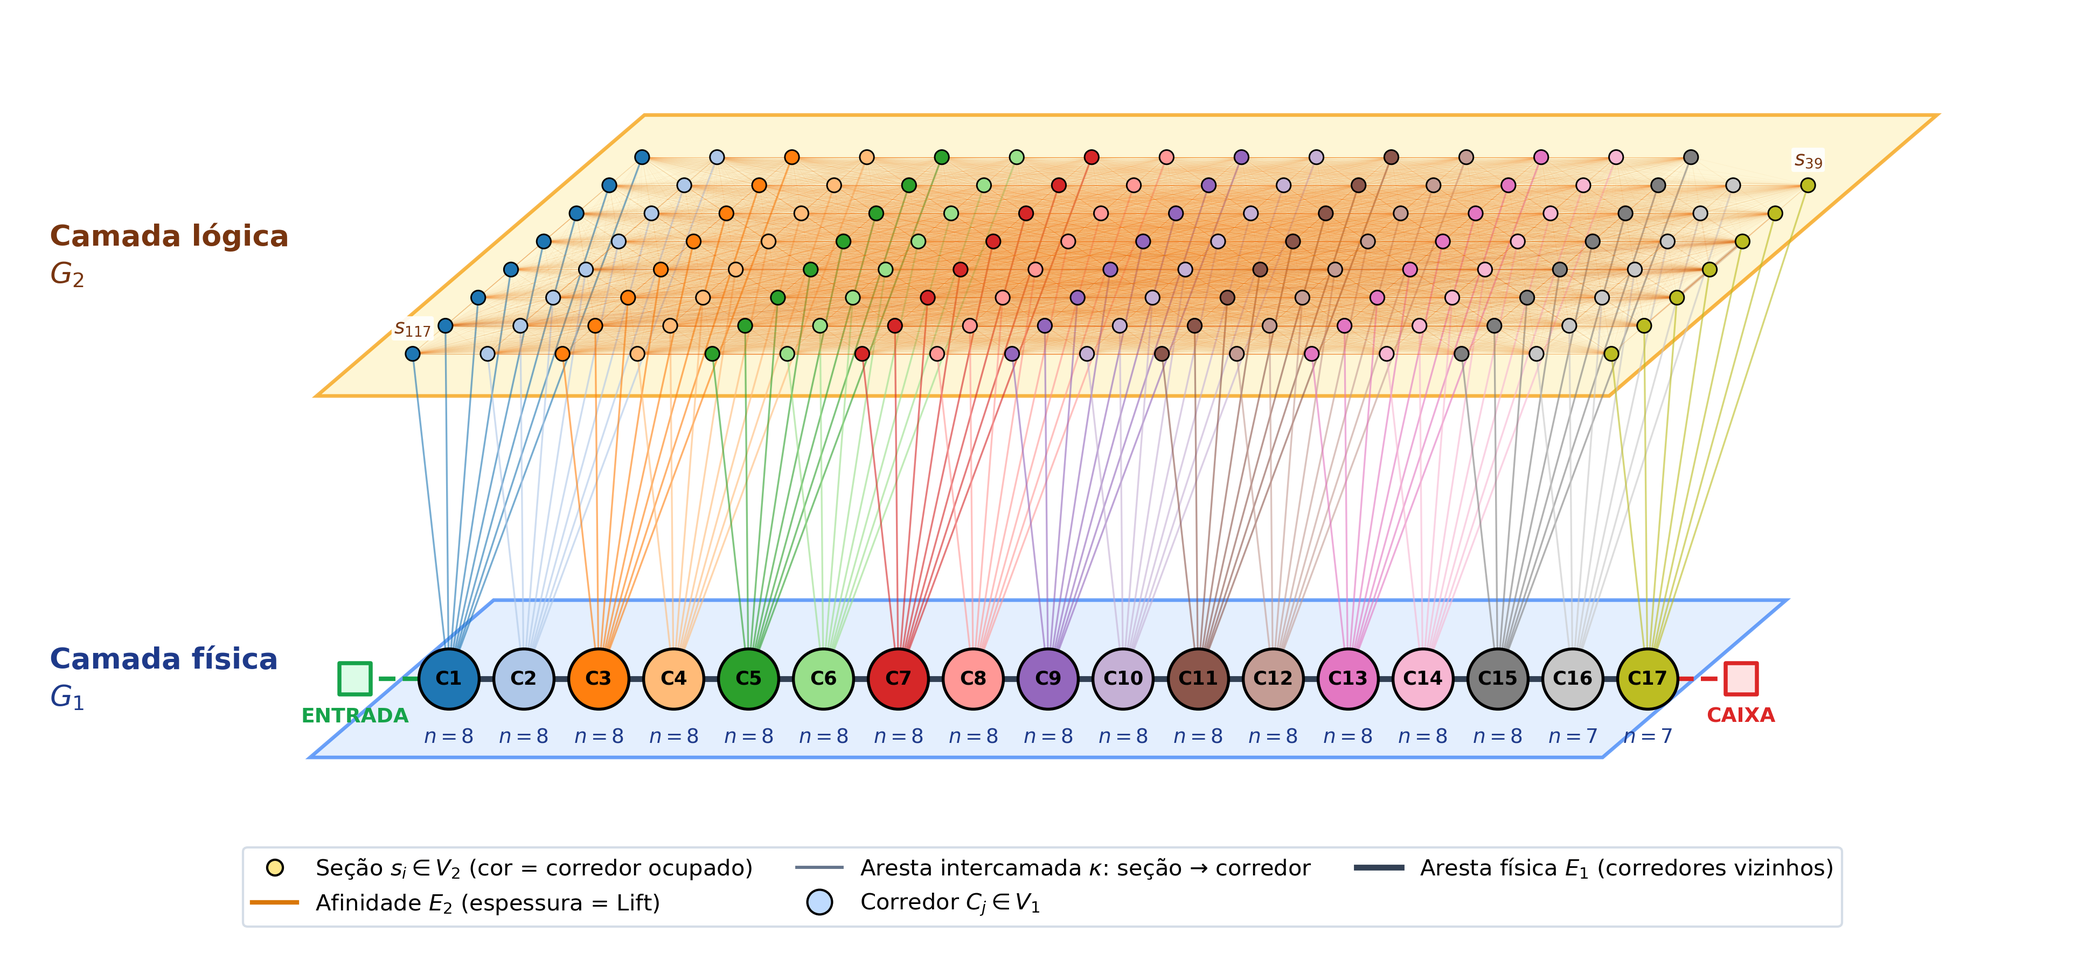
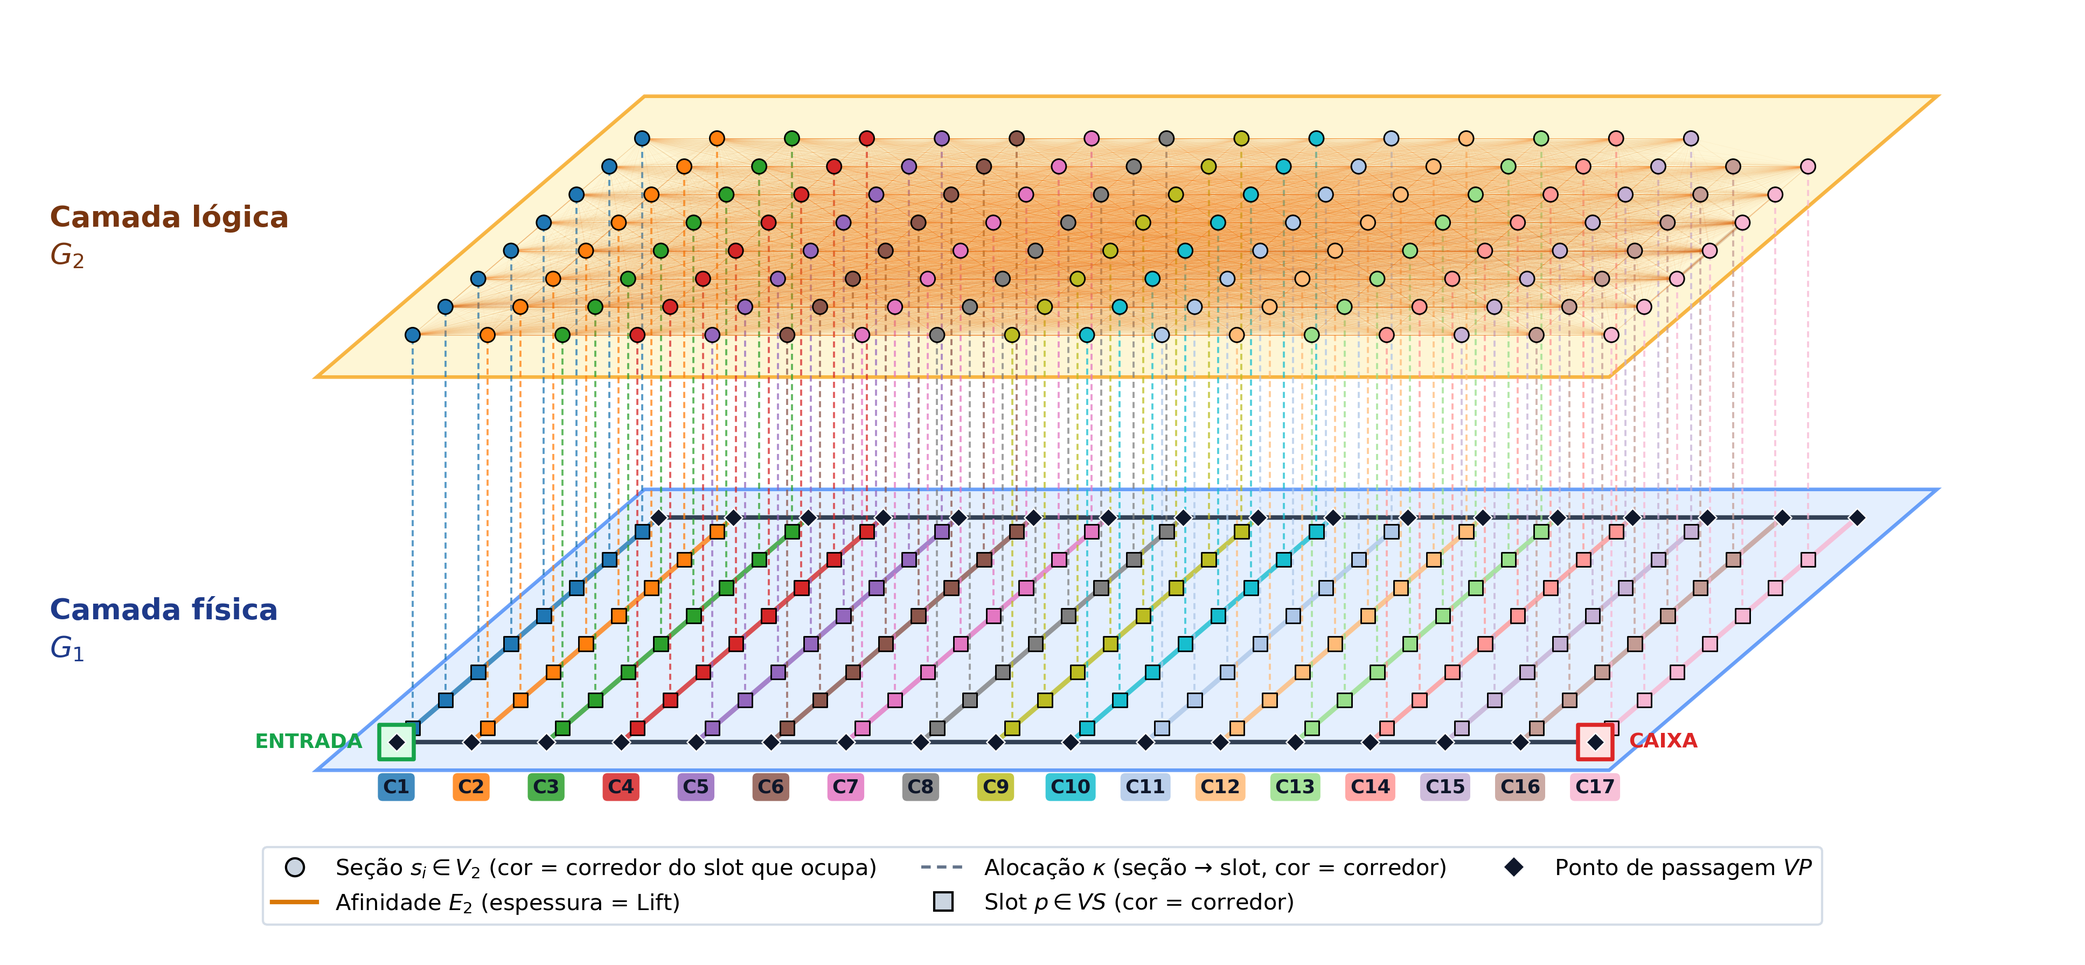
fix: ajuste no script das figuras

diff --git a/modelagem/gerar_grafos_modelagem.py b/modelagem/gerar_grafos_modelagem.py
@@ -29,18 +29,19 @@ import numpy as np
 import pandas as pd
 from matplotlib.collections import LineCollection
 from matplotlib.lines import Line2D
-from matplotlib.patches import ConnectionPatch, FancyBboxPatch, Rectangle
+from matplotlib.patches import Rectangle
 
-
+# ---------------------------------------------------------------------------
 # Parâmetros do layout (seção 3.5 da modelagem)
-
+# ---------------------------------------------------------------------------
 N_CORREDORES = 17
-COMPRIMENTO = 20.0   
-DX = 4.0             
-H_LATERAL = 1.0      
-X_ENTRADA = -5.0    
-X_CAIXA = (N_CORREDORES - 1) * DX + 5.0  
-N_POS_MAX = 8        
+COMPRIMENTO = 20.0   # m por corredor
+DX = 4.0             # m entre eixos de corredores adjacentes
+X_MAX = (N_CORREDORES - 1) * DX      # 64 m
+H_LATERAL = 0.0      # slots sobre o eixo do corredor (h_i = 0)
+X_ENTRADA = 0.0      # ENTRADA em (0, 0): coincide com o ponto de passagem frontal do corredor 1
+X_CAIXA = X_MAX      # CAIXA em (64, 0): coincide com o ponto de passagem frontal do corredor 17
+N_POS_MAX = 8        # espaçamento de 2,5 m; primeiro slot a 1,25 m do início
 
 # Paleta
 COR_FUNDO_LOJA = "#F8FAFC"
@@ -54,7 +55,8 @@ COR_CAIXA = "#DC2626"
 COR_ARESTA_G2 = "#D97706"
 COR_NO_G2 = "#FDE68A"
 COR_NO_G2_BORDA = "#B45309"
-DESTAQUES = ["#E11D48", "#7C3AED", "#059669", "#2563EB", "#DB2777", "#EA580C"]
+_ORDEM_TAB20 = [0, 2, 4, 6, 8, 10, 12, 14, 16, 18, 1, 3, 5, 7, 9, 11, 13]
+COR_CORREDOR = {c: plt.cm.tab20(_ORDEM_TAB20[c - 1]) for c in range(1, 18)}   # corredores vizinhos têm cores distintas
 
 plt.rcParams.update(
     {
@@ -65,15 +67,16 @@ plt.rcParams.update(
 )
 
 
+# ---------------------------------------------------------------------------
 # Dados
-
+# ---------------------------------------------------------------------------
 @dataclass
 class Loja:
     """Geometria da loja (em metros) e grafo físico G1."""
 
-    slots: pd.DataFrame     
-    grafo: nx.Graph         
-    rho: np.ndarray          
+    slots: pd.DataFrame      # colunas: idx, corredor, pos, x_eixo, y, x_slot
+    grafo: nx.Graph          # G1 completo, com pesos de Manhattan
+    rho: np.ndarray          # rho(p) = d(ENT,p) + d(p,CAIXA), por slot (ordem de slots)
 
     @property
     def n_slots(self) -> int:
@@ -120,31 +123,29 @@ def construir_loja(df_layout: pd.DataFrame) -> Loja:
                         y=passo * (p - 0.5), x_slot=x + H_LATERAL))
     slots = pd.DataFrame(reg)
 
-    # Grafo físico G1: ENTRADA, CAIXA, VP (frente/fundo), nós de acesso e slots
+    # Grafo físico G1: ENTRADA, CAIXA, pontos de passagem (frente/fundo) e slots sobre o eixo
     g = nx.Graph()
-    manh = lambda a, b: abs(a[0] - b[0]) + abs(a[1] - b[1])
+    manh = lambda a_, b_: abs(a_[0] - b_[0]) + abs(a_[1] - b_[1])
     pos = {"ENTRADA": (X_ENTRADA, 0.0), "CAIXA": (X_CAIXA, 0.0)}
     for c in range(1, N_CORREDORES + 1):
         x = (c - 1) * DX
         pos[f"VPf{c}"], pos[f"VPt{c}"] = (x, 0.0), (x, COMPRIMENTO)
 
-    def aresta(a, b, w=None):
-        g.add_edge(a, b, weight=manh(pos[a], pos[b]) if w is None else w)
+    def aresta(a_, b_):
+        g.add_edge(a_, b_, weight=manh(pos[a_], pos[b_]))
 
-    for c in range(1, N_CORREDORES):                       # transversais
+    for c in range(1, N_CORREDORES):                       # transversais (troca de corredor)
         aresta(f"VPf{c}", f"VPf{c + 1}")
         aresta(f"VPt{c}", f"VPt{c + 1}")
-    aresta("ENTRADA", "VPf1")
+    aresta("ENTRADA", "VPf1")                              # peso 0: coincidem
     aresta("CAIXA", f"VPf{N_CORREDORES}")
 
-    for c, grp in slots.groupby("corredor"):               # eixos + acessos + slots
+    for c, grp in slots.groupby("corredor"):               # slots consecutivos no eixo, até as transversais
         cadeia = [f"VPf{c}"]
         for _, s in grp.iterrows():
             k = int(s["idx"])
-            a, sl = f"A{k}", f"S{k}"
-            pos[a], pos[sl] = (s.x_eixo, s.y), (s.x_slot, s.y)
-            cadeia.append(a)
-            aresta(a, sl, w=H_LATERAL)
+            pos[f"S{k}"] = (s.x_eixo, s.y)
+            cadeia.append(f"S{k}")
         cadeia.append(f"VPt{c}")
         for u, v in zip(cadeia[:-1], cadeia[1:]):
             aresta(u, v)
@@ -168,7 +169,7 @@ def carregar_arestas_g2(raiz: Path, ids: list[int]) -> tuple[list[tuple[int, int
             u = df.iloc[:, 0].astype(int).to_numpy()
             v = df.iloc[:, 1].astype(int).to_numpy()
             w = df.iloc[:, 2].astype(float).to_numpy()
-            if min(u.min(), v.min()) == 0 and 0 not in validos:  
+            if min(u.min(), v.min()) == 0 and 0 not in validos:   # índices 0-based -> aisle_id
                 u, v = u + 1, v + 1
             ok = np.isin(u, list(validos)) & np.isin(v, list(validos)) & (u != v)
             arestas = list(zip(u[ok].tolist(), v[ok].tolist(), w[ok].tolist()))
@@ -183,7 +184,7 @@ def carregar_arestas_g2(raiz: Path, ids: list[int]) -> tuple[list[tuple[int, int
     ids_ord = sorted(ids)
     n = len(ids_ord)
     arestas = []
-    bloco = np.arange(n) // 12         
+    bloco = np.arange(n) // 12          # grupos de seções com afinidade interna
     for i in range(n):
         for j in range(i + 1, n):
             if bloco[i] == bloco[j] and rng.random() < 0.55:
@@ -193,63 +194,42 @@ def carregar_arestas_g2(raiz: Path, ids: list[int]) -> tuple[list[tuple[int, int
     return arestas, False
 
 
-
-# camada física 
-
-def desenhar_fisico(ax, loja: Loja, cores_slots=None, tamanho_slot=70, cmap=None, vmin=None, vmax=None):
-    """Planta de G1. Retorna o scatter dos slots (útil para colorbar)."""
+# ---------------------------------------------------------------------------
+# Desenho da camada física (planta vista de cima)
+# ---------------------------------------------------------------------------
+def desenhar_fisico(ax, loja: Loja, cores_slots=None, tamanho_slot=75, cmap=None):
+    """Planta de G1: slots sobre os eixos, pontos de passagem, ENTRADA e CAIXA. Retorna o scatter dos slots."""
     ax.set_aspect("equal", adjustable="box")
-    ax.set_xlim(X_ENTRADA - 4.5, X_CAIXA + 4.5)
-    ax.set_ylim(-6.5, COMPRIMENTO + 3.0)
+    ax.set_xlim(-6, X_MAX + 6)
+    ax.set_ylim(-8, COMPRIMENTO + 3.0)
     ax.axis("off")
-
-    x_max = (N_CORREDORES - 1) * DX
-    ax.add_patch(Rectangle((-2.0, -1.4), x_max + 4.0, COMPRIMENTO + 2.8,
+    ax.add_patch(Rectangle((-2.0, -1.4), X_MAX + 4.0, COMPRIMENTO + 2.8,
                            facecolor=COR_FUNDO_LOJA, edgecolor=COR_EIXO, lw=1.0, zorder=0))
 
-    for y in (0.0, COMPRIMENTO):
-        ax.plot([0, x_max], [y, y], color=COR_TRANSVERSAL, lw=2.2, solid_capstyle="round", zorder=2)
-    
-    for c in range(1, N_CORREDORES + 1):
+    for y in (0.0, COMPRIMENTO):                                   # transversais
+        ax.plot([0, X_MAX], [y, y], color=COR_TRANSVERSAL, lw=2.2, solid_capstyle="round", zorder=2)
+    for c in range(1, N_CORREDORES + 1):                           # eixos
         x = (c - 1) * DX
         ax.plot([x, x], [0, COMPRIMENTO], color=COR_EIXO, lw=1.6, zorder=2)
         ax.text(x, -2.4, f"C{c}", ha="center", va="center", fontsize=9, fontweight="bold", color=COR_VP)
 
-    xs = np.repeat(np.arange(N_CORREDORES) * DX, 2)
+    xs = np.repeat(np.arange(N_CORREDORES) * DX, 2)                # 34 pontos de passagem
     ys = np.tile([0.0, COMPRIMENTO], N_CORREDORES)
     ax.scatter(xs, ys, marker="D", s=44, c=COR_VP, edgecolors="white", linewidths=0.8, zorder=5)
 
     s = loja.slots
-    ax.scatter(s.x_eixo, s.y, s=10, c="#64748B", zorder=3)
-    ax.plot(np.vstack([s.x_eixo, s.x_slot]), np.vstack([s.y, s.y]), color="#475569", lw=1.0, zorder=3)
     kw = dict(s=tamanho_slot, marker="s", linewidths=0.8, zorder=6)
     if cores_slots is None:
         sc = ax.scatter(s.x_slot, s.y, c=COR_SLOT, edgecolors=COR_SLOT_BORDA, **kw)
     else:
-        sc = ax.scatter(s.x_slot, s.y, c=cores_slots, cmap=cmap, vmin=vmin, vmax=vmax,
-                        edgecolors="#0F172A", **kw)
+        sc = ax.scatter(s.x_slot, s.y, c=cores_slots, cmap=cmap, edgecolors="#0F172A", **kw)
 
-    # ENTRADA / CAIXA
-    for x, cor, face, nome, x_vp in (
-        (X_ENTRADA, COR_ENTRADA, "#DCFCE7", "ENTRADA\n($v_{in}$)", 0.0),
-        (X_CAIXA, COR_CAIXA, "#FEE2E2", "CAIXA\n($v_{out}$)", x_max),
-    ):
-        ax.plot([x, x_vp], [0, 0], color=cor, lw=2.0, ls="--", zorder=3)
-        ax.scatter([x], [0], s=230, marker="s", facecolor=face, edgecolor=cor, lw=2.0, zorder=7)
-        ax.text(x, -2.4, nome, ha="center", va="top", fontsize=9.5, fontweight="bold", color=cor)
+    for x, cor, face, nome in ((X_ENTRADA, COR_ENTRADA, "#DCFCE7", "ENTRADA ($v_{in}$)"),
+                               (X_CAIXA, COR_CAIXA, "#FEE2E2", "CAIXA ($v_{out}$)")):
+        ax.scatter([x], [0], s=300, marker="s", facecolor=face, edgecolor=cor, lw=2.0, zorder=7)
+        ax.scatter([x], [0], s=44, marker="D", c=COR_VP, edgecolors="white", linewidths=0.8, zorder=8)
+        ax.text(x, -5.2, nome, ha="center", va="top", fontsize=9.5, fontweight="bold", color=cor)
     return sc
-
-
-def legenda_fisica(extra=None):
-    h = [
-        Line2D([], [], marker="D", ls="None", color=COR_VP, markeredgecolor="white", markersize=8,
-               label="Pontos de passagem $VP$"),
-        Line2D([], [], marker="o", ls="None", color="#64748B", markersize=5,
-               label="Nós de acesso no eixo do corredor"),
-        Line2D([], [], color="#475569", lw=1.2, label="Aresta slot–acesso (peso $h_i$)"),
-        Line2D([], [], color=COR_TRANSVERSAL, lw=2.2, label="Circulação: eixos e transversais (peso Manhattan)"),
-    ]
-    return h + (extra or [])
 
 
 def salvar(fig, saida: Path):
@@ -259,85 +239,95 @@ def salvar(fig, saida: Path):
     print(f"Salvo: {saida}")
 
 
+# ---------------------------------------------------------------------------
 # Cenário 2: grafo único
-
+# ---------------------------------------------------------------------------
 def gerar_cenario2(raiz: Path, saida: Path, com_titulo: bool = False, layout: str = "L2") -> None:
     loja = construir_loja(carregar_layout(raiz, layout))
     fig, ax = plt.subplots(figsize=(16, 6.8))
 
-    sc = desenhar_fisico(ax, loja, cores_slots=loja.rho, cmap="viridis_r", tamanho_slot=75)
+    sc = desenhar_fisico(ax, loja, cores_slots=loja.rho, cmap="viridis_r", tamanho_slot=80)
     cb = fig.colorbar(sc, ax=ax, fraction=0.018, pad=0.01)
     cb.set_label(r"Custo do slot  $\rho(p) = d(v_{in},p) + d(p,v_{out})$  [m]", fontsize=10.5)
     cb.ax.text(0.5, 1.03, "mais caro\n(fundo)", transform=cb.ax.transAxes, ha="center", va="bottom", fontsize=9)
     cb.ax.text(0.5, -0.03, "mais barato\n(frente)", transform=cb.ax.transAxes, ha="center", va="top", fontsize=9)
-    ax.text(-8.8, COMPRIMENTO + 1.2, "FUNDO", fontsize=9, color="#64748B", fontweight="bold", ha="left")
-    ax.text(-8.8, 1.2, "FRENTE", fontsize=9, color="#64748B", fontweight="bold", ha="left")
+    ax.text(-5.8, COMPRIMENTO + 1.2, "FUNDO", fontsize=9, color="#64748B", fontweight="bold", ha="left")
+    ax.text(-5.8, 1.2, "FRENTE", fontsize=9, color="#64748B", fontweight="bold", ha="left")
 
     if com_titulo:
         ax.set_title(
             rf"Cenário 2: grafo único $G=(V,E,w)$ — {N_CORREDORES} corredores e {loja.n_slots} slots",
             fontsize=14, pad=10)
-    ax.legend(handles=legenda_fisica([
+    ax.legend(handles=[
+        Line2D([], [], marker="D", ls="None", color=COR_VP, markeredgecolor="white", markersize=8,
+               label="Pontos de passagem $VP$"),
+        Line2D([], [], color=COR_TRANSVERSAL, lw=2.2, label="Circulação: eixos e transversais (peso Manhattan)"),
         Line2D([], [], marker="s", ls="None", markerfacecolor="#FDE725", markeredgecolor="#0F172A", markersize=8,
                label=r"Slot $VS$: amarelo = menor $\rho$ (recebe as seções de maior demanda $f(s)$)"),
-    ]), loc="upper center", bbox_to_anchor=(0.5, -0.01), ncol=2, fontsize=9.5, frameon=True,
-        edgecolor="#CBD5E1")
+    ], loc="upper center", bbox_to_anchor=(0.5, -0.01), ncol=2, fontsize=9.5, frameon=True, edgecolor="#CBD5E1")
     salvar(fig, saida)
 
 
-# Cenário 1: multicamadas heterogêneo (V1 = 17 corredores, V2 = 134 seções)
-
+# ---------------------------------------------------------------------------
+# Cenário 1: multicamadas M = ({G1, G2}, C)
+# ---------------------------------------------------------------------------
 def gerar_cenario1(raiz: Path, saida: Path, max_arestas: int = 0, com_titulo: bool = False,
                    layout: str = "L1") -> None:
     loja = construir_loja(carregar_layout(raiz, layout))
     n = loja.n_slots
     ids = loja.slots["aisle_id"].tolist()
     arestas, real = carregar_arestas_g2(raiz, ids)
-    slot_de = {a_: i for i, a_ in enumerate(ids)}         
+    slot_de = {a_: i for i, a_ in enumerate(ids)}          # aisle_id -> índice do slot que a seção ocupa
     arestas = [(slot_de[u], slot_de[v], w_) for u, v, w_ in arestas]
-    s = loja.slots
-    corr = s["corredor"].to_numpy()            # corredor ocupado por cada seção (seção i -> slot i)
-    cont = s.groupby("corredor").size()        # nº de seções por corredor
 
     def proj(x, y, z=0.0):
         return x + 0.7 * y, 0.6 * y + z
 
-    Z_SUP, Y_C = 19.0, 4.0
-    x_max = (N_CORREDORES - 1) * DX
-    cmap = plt.cm.tab20
-    cor_c = {c: cmap((c - 1) % 20) for c in range(1, N_CORREDORES + 1)}
+    Z_SUP = 21.0
+    s = loja.slots
+    xs, ys = s["x_slot"].to_numpy(), s["y"].to_numpy()
+
+    corr = s["corredor"].to_numpy()
+    cores_slot = [COR_CORREDOR[int(c)] for c in corr]
 
     fig, ax = plt.subplots(figsize=(16, 10.5))
     ax.set_aspect("equal")
     ax.axis("off")
 
-    def plano(z, y0, y1, face, edge):
-        pts = [proj(-2.5, y0, z), proj(x_max + 2.5, y0, z), proj(x_max + 2.5, y1, z), proj(-2.5, y1, z)]
+    def plano(z, face, edge):
+        pts = [proj(-2.5, -2.5, z), proj(X_MAX + 2.5, -2.5, z), proj(X_MAX + 2.5, COMPRIMENTO + 2.5, z),
+               proj(-2.5, COMPRIMENTO + 2.5, z)]
         ax.add_patch(plt.Polygon(pts, closed=True, fc=face, ec=edge, lw=1.6, alpha=0.75, zorder=1 + z / 100))
 
-    plano(0, -3, 11, "#DBEAFE", "#3B82F6")
-    pos1 = {c: proj((c - 1) * DX, Y_C) for c in range(1, N_CORREDORES + 1)}
-    for c in range(1, N_CORREDORES):
-        a, b = pos1[c], pos1[c + 1]
-        ax.plot([a[0], b[0]], [a[1], b[1]], color=COR_TRANSVERSAL, lw=2.6, zorder=4)
-    for xe, cor, face, nome, c_viz in ((X_ENTRADA, COR_ENTRADA, "#DCFCE7", "ENTRADA", 1),
-                                       (X_CAIXA, COR_CAIXA, "#FEE2E2", "CAIXA", N_CORREDORES)):
-        a, b = proj(xe, Y_C), pos1[c_viz]
-        ax.plot([a[0], b[0]], [a[1], b[1]], color=cor, lw=2.0, ls="--", zorder=4)
-        ax.scatter(*a, s=190, marker="s", facecolor=face, edgecolor=cor, lw=1.8, zorder=7)
-        ax.text(a[0], a[1] - 1.5, nome, ha="center", va="top", fontsize=9, fontweight="bold", color=cor)
-    for c, (px, py) in pos1.items():
-        ax.scatter(px, py, s=720, c=[cor_c[c]], edgecolors="black", linewidths=1.3, zorder=8)
-        ax.text(px, py, f"C{c}", ha="center", va="center", fontsize=8.5, fontweight="bold", zorder=9)
-        ax.text(px, py - 2.6, rf"$n={cont[c]}$", ha="center", va="top", fontsize=9, color="#1E3A8A", zorder=9)
+    # ---------------- G1 (embaixo): slots, pontos de passagem, ENTRADA e CAIXA
+    plano(0, "#DBEAFE", "#3B82F6")
+    for y in (0.0, COMPRIMENTO):
+        a_, b_ = proj(0, y), proj(X_MAX, y)
+        ax.plot([a_[0], b_[0]], [a_[1], b_[1]], color=COR_TRANSVERSAL, lw=2.0, zorder=2)
+    for c in range(N_CORREDORES):
+        a_, b_ = proj(c * DX, 0), proj(c * DX, COMPRIMENTO)
+        ax.plot([a_[0], b_[0]], [a_[1], b_[1]], color=COR_CORREDOR[c + 1], lw=2.2, alpha=0.8, zorder=2)
+        lx, ly = proj(c * DX, -4.0)
+        ax.text(lx + 2.8, ly, f"C{c + 1}", ha="center", va="center", fontsize=8.5, fontweight="bold",
+                color=COR_VP, bbox=dict(boxstyle="round,pad=0.25", fc=COR_CORREDOR[c + 1], ec="none", alpha=0.85))
+    vp = np.array([proj(c * DX, y) for c in range(N_CORREDORES) for y in (0.0, COMPRIMENTO)])
+    ax.scatter(vp[:, 0], vp[:, 1], marker="D", s=34, c=COR_VP, edgecolors="white", linewidths=0.6, zorder=5)
+    sl1 = np.array([proj(x, y) for x, y in zip(xs, ys)])
+    ax.scatter(sl1[:, 0], sl1[:, 1], s=40, marker="s", c=cores_slot, edgecolors="black", linewidths=0.7, zorder=6)
+    for xe, cor, face, nome, ha_, dx_ in ((X_ENTRADA, COR_ENTRADA, "#DCFCE7", "ENTRADA", "right", -1.8),
+                                          (X_CAIXA, COR_CAIXA, "#FEE2E2", "CAIXA", "left", 1.8)):
+        a_ = proj(xe, 0)
+        ax.scatter(*a_, s=230, marker="s", facecolor=face, edgecolor=cor, lw=1.8, zorder=7)
+        ax.scatter(*a_, s=34, marker="D", c=COR_VP, edgecolors="white", linewidths=0.6, zorder=8)
+        ax.text(a_[0] + dx_, a_[1], nome, ha=ha_, va="center", fontsize=9, fontweight="bold", color=cor)
 
-    # ---------------- G2 (em cima): 134 seções, agrupadas acima do corredor que ocupam
-    plano(Z_SUP, -2.5, 22.5, "#FEF3C7", "#F59E0B")
-    pos2 = np.array([proj((c - 1) * DX, y, Z_SUP) for c, y in zip(corr, s["y"])])
+    # ---------------- G2 (em cima): seção i sobre o slot que ocupa (aresta intercamada κ)
+    plano(Z_SUP, "#FEF3C7", "#F59E0B")
+    sl2 = np.array([proj(x, y, Z_SUP) for x, y in zip(xs, ys)])
 
-    for i in range(n):  # intercamadas: seção -> corredor 
-        a, b = pos2[i], pos1[int(corr[i])]
-        ax.plot([a[0], b[0]], [a[1], b[1]], color=cor_c[int(corr[i])], lw=0.8, alpha=0.6, zorder=3)
+    for i in range(n):
+        ax.plot([sl1[i, 0], sl2[i, 0]], [sl1[i, 1], sl2[i, 1]], color=cores_slot[i], lw=0.9, ls=(0, (3, 2)),
+                alpha=0.75, zorder=3)
 
     # E2 completo (sem pares duplicados); max_arestas > 0 limita às de maior Lift
     unicas = {}
@@ -349,44 +339,40 @@ def gerar_cenario1(raiz: Path, saida: Path, max_arestas: int = 0, com_titulo: bo
         ar = ar[-max_arestas:]
     w = np.array([t_[2] for t_ in ar])
     wn = (w - w.min()) / max(np.ptp(w), 1e-9)
-    # com muitas arestas, linhas mais finas e transparentes para continuar legível
     a_min = float(np.clip(250 / len(ar), 0.05, 0.35))
     lw_min = 0.5 if len(ar) <= 1500 else 0.25
-    segs = [[tuple(pos2[u]), tuple(pos2[v])] for u, v, _ in ar]
+    segs = [[tuple(sl2[u]), tuple(sl2[v])] for u, v, _ in ar]
     cores = plt.cm.YlOrBr(0.55 + 0.4 * wn)
     cores[:, 3] = a_min + (min(0.9, a_min * 2.5) - a_min) * wn
     ax.add_collection(LineCollection(segs, colors=cores, linewidths=lw_min + 1.4 * wn, zorder=8))
     print(f"G2: {n} vértices, {len(ar)} arestas desenhadas (E2 total: {len(unicas)})")
-    ax.scatter(pos2[:, 0], pos2[:, 1], s=40, c=[cor_c[int(c)] for c in corr], edgecolors="black",
-               linewidths=0.7, zorder=9)
-    for i in (0, n - 1):
-        ax.annotate(rf"$s_{{{ids[i]}}}$", pos2[i], xytext=(0, 9), textcoords="offset points", ha="center",
-                    fontsize=9, fontweight="bold", color="#78350F", zorder=12,
-                    bbox=dict(boxstyle="round,pad=0.12", fc="white", ec="none", alpha=0.9))
+    ax.scatter(sl2[:, 0], sl2[:, 1], s=42, c=cores_slot, edgecolors="black", linewidths=0.7, zorder=9)
 
     nota = "\n(ilustrativo)" if not real else ""
-    ax.text(-18.5, proj(0, 10, Z_SUP)[1], r"Camada lógica" "\n" r"$G_2$" + nota,
+    ax.text(-18.5, proj(0, 10, Z_SUP)[1], "Camada lógica\n" r"$G_2$" + nota,
             fontsize=13, fontweight="bold", color="#78350F", va="center", ha="left", linespacing=1.4)
-    ax.text(-18.5, proj(0, Y_C)[1], r"Camada física" "\n" r"$G_1$",
+    ax.text(-18.5, proj(0, 10)[1], "Camada física\n" r"$G_1$",
             fontsize=13, fontweight="bold", color="#1E3A8A", va="center", ha="left", linespacing=1.4)
 
     ax.set_xlim(-19, 88)
-    ax.set_ylim(-6, proj(0, 22.5, Z_SUP)[1] + 4)
+    ax.set_ylim(-5, proj(0, COMPRIMENTO + 2.5, Z_SUP)[1] + 3)
     if com_titulo:
-        ax.set_title(rf"Cenário 1: grafo multicamadas heterogêneo $M=(G,C)$ — {N_CORREDORES} corredores × {n} seções",
+        ax.set_title(rf"Cenário 1: grafo multicamadas $M=(G,C)$ — {n} slots e {n} seções",
                      fontsize=15, fontweight="bold", pad=10)
     ax.legend(handles=[
-        Line2D([], [], marker="o", ls="None", markerfacecolor="#FDE68A", markeredgecolor="black", markersize=7,
-               label=r"Seção $s_i \in V_2$ (cor = corredor ocupado)"),
+        Line2D([], [], marker="o", ls="None", markerfacecolor="#CBD5E1", markeredgecolor="black", markersize=8,
+               label=r"Seção $s_i \in V_2$ (cor = corredor do slot que ocupa)"),
         Line2D([], [], color=COR_ARESTA_G2, lw=2, label=r"Afinidade $E_2$ (espessura = Lift)"),
-        Line2D([], [], color="#64748B", lw=1.4, label=r"Aresta intercamada $\kappa$: seção $\to$ corredor"),
-        Line2D([], [], marker="o", ls="None", markerfacecolor="#BFDBFE", markeredgecolor="black", markersize=11,
-               label=r"Corredor $C_j \in V_1$"),
-        Line2D([], [], color=COR_TRANSVERSAL, lw=2.6, label=r"Aresta física $E_1$ (corredores vizinhos)"),
+        Line2D([], [], color="#64748B", lw=1.4, ls=(0, (3, 2)), label=r"Alocação $\kappa$ (seção $\to$ slot, cor = corredor)"),
+        Line2D([], [], marker="s", ls="None", markerfacecolor="#CBD5E1", markeredgecolor="black", markersize=8,
+               label=r"Slot $p \in VS$ (cor = corredor)"),
+        Line2D([], [], marker="D", ls="None", color=COR_VP, markeredgecolor="white", markersize=7,
+               label=r"Ponto de passagem $VP$"),
     ], loc="upper center", bbox_to_anchor=(0.5, 0.0), ncol=3, fontsize=10, frameon=True, edgecolor="#CBD5E1")
     salvar(fig, saida)
 
 
+# ---------------------------------------------------------------------------
 def main() -> None:
     ap = argparse.ArgumentParser(description=__doc__, formatter_class=argparse.RawDescriptionHelpFormatter)
     ap.add_argument("--raiz", type=Path, default=Path(__file__).resolve().parent.parent)
